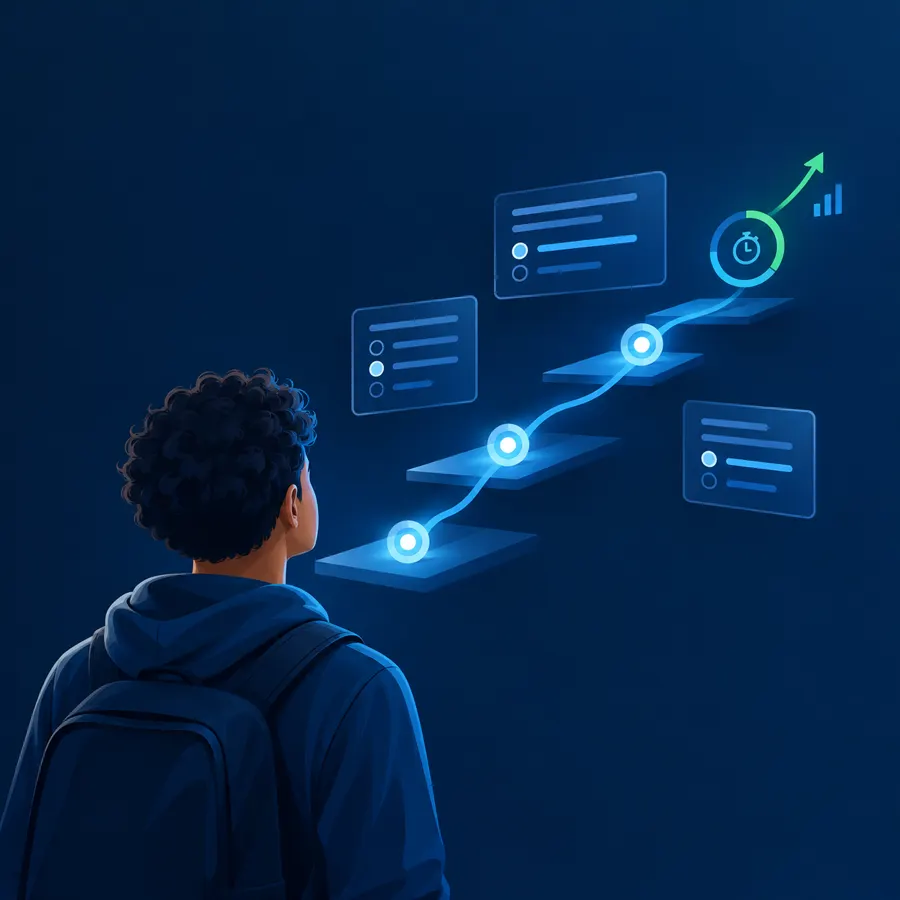
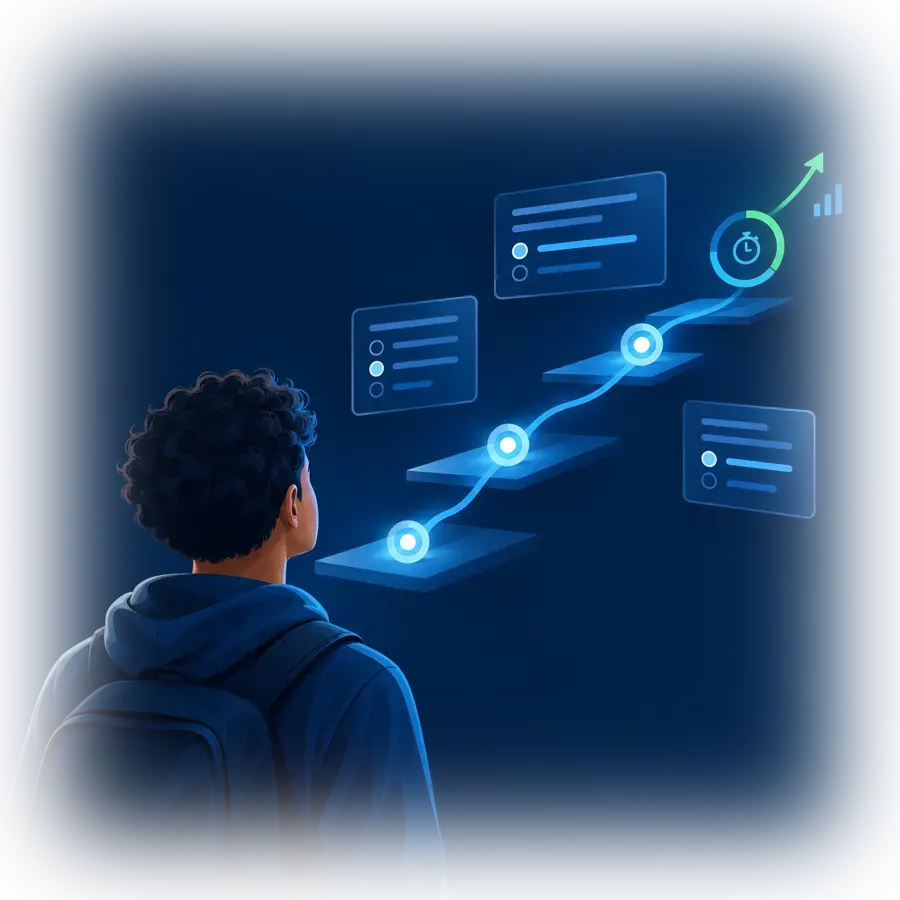
fix(frontend): dissolve bordas da arte da hero no canvas navy
A mask-image CSS nao fundia as bordas em todos os navegadores e a
arte aparecia como retangulo recortado. Desvanecimento agora embutido
no canal alfa do hero.webp (ImageMagick, 35 KB); mascara CSS mantida
como refinamento progressivo.

diff --git a/frontend/css/landing.css b/frontend/css/landing.css
@@ -299,8 +299,9 @@ body.landing-page {
 
 /* Composição: arte gerada (estudante diante da jornada em degraus)
  * como fundo do painel, com o mock e as pílulas por cima — produto
- * real + ilustração que explica. A arte tem fundo navy próprio e as
- * bordas são dissolvidas no canvas via máscara radial, sem moldura.
+ * real + ilustração que explica. O desvanecimento das bordas no canvas
+ * está embutido no próprio webp (canal alfa); a máscara CSS abaixo é
+ * só refinamento progressivo, sem ela a arte continua sem moldura.
  *
  * Arquivo 900px para ~500px exibidos: sem upscale (Lighthouse
  * `image-size-responsive` OK). `alt` vazio de propósito: a região já
